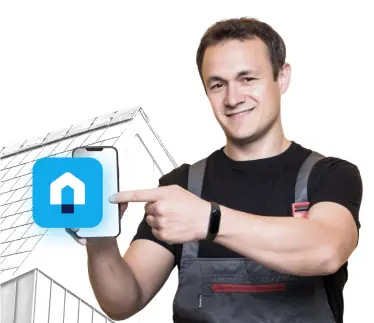
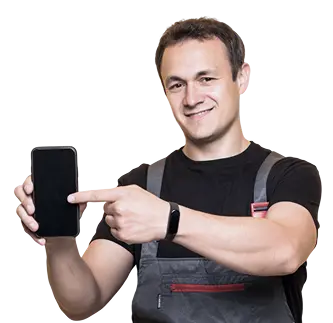
Update styles bunner

diff --git a/css/main.min.css b/css/main.min.css
@@ -1,1 +1,1 @@
-.visually-hidden{position:absolute;white-space:nowrap;width:1px;height:1px;overflow:hidden;border:0;padding:0;clip:rect(0 0 0 0);clip-path:inset(50%);margin:-1px}@font-face{font-family:"Plus Jakarta Sans";src:url("../fonts/PlusJakartaSans-Regular.woff2") format("woff2");font-weight:normal;font-style:normal;font-display:swap}@font-face{font-family:"Plus Jakarta Sans";src:url("../fonts/PlusJakartaSans-Bold.woff2") format("woff2");font-weight:bold;font-style:normal;font-display:swap}@font-face{font-family:"Plus Jakarta Sans";src:url("../fonts/PlusJakartaSans-SemiBold.woff2") format("woff2");font-weight:600;font-style:normal;font-display:swap}@font-face{font-family:"Be Vietnam Pro";src:url("../fonts/BeVietnamPro-Medium.woff2") format("woff2");font-weight:500;font-style:normal;font-display:swap}@font-face{font-family:"Plus Jakarta Sans";src:url("../fonts/PlusJakartaSans-ExtraBold.woff2") format("woff2");font-weight:bold;font-style:normal;font-display:swap}@font-face{font-family:"Be Vietnam Pro";src:url("../fonts/BeVietnamPro-Regular.woff2") format("woff2");font-weight:normal;font-style:normal;font-display:swap}*,*::before,*::after{margin:0;padding:0;border:0;-webkit-box-sizing:border-box;box-sizing:border-box}a,*::before,*::after{display:inline-block}html,body{min-width:320px;height:100%}body{font-family:"Plus Jakarta Sans",sans-serif;font-size:18px;line-height:1.56;color:#545971;background-color:#142257}html{scroll-behavior:smooth}a{color:inherit;text-decoration:none}ul,ol,li{list-style:none}button{cursor:pointer;background-color:inherit}img{vertical-align:top}h1,h2,h3,h4,h5,h6{font-weight:inherit;font-size:inherit}button,input{font-weight:inherit;font-size:inherit;color:inherit;font-family:inherit}[class*=__container]{max-width:375px;margin:0 auto;padding:0 24px}@media(min-width: 768px){[class*=__container]{max-width:768px}}@media(min-width: 1280px){[class*=__container]{max-width:1280px;padding:0 50px}}@media(min-width: 1440px){[class*=__container]{max-width:1440px;padding:0 100px}}@media(min-width: 1920px){[class*=__container]{max-width:1920px;padding:0 240px}}.section__title{font-weight:700;font-size:24px;line-height:1.33;color:#171921}.header{padding:12px 0}.header__container{display:-webkit-box;display:-ms-flexbox;display:flex;-webkit-box-align:center;-ms-flex-align:center;align-items:center;-webkit-box-pack:justify;-ms-flex-pack:justify;justify-content:space-between;min-height:56px}.logo{z-index:2}.menu__list{display:-webkit-box;display:-ms-flexbox;display:flex;gap:16px}.menu__link{position:relative;font-weight:700;line-height:1.33;color:#fff;-webkit-transition:color .3s linear;transition:color .3s linear}.menu__link:hover,.menu__link:focus{color:#15b2f5}.menu__link::after{content:"";position:absolute;width:0;height:2px;display:block;margin-top:5px;right:0;background:#15b2f5;-webkit-transition:width .3s ease;transition:width .3s ease;-webkit-transition:width .6s ease}.menu__link:hover::after,.menu__link:focus::after{width:100%;left:0}.header__hours{display:none}@media(min-width: 768px){.header__hours{display:-webkit-box;display:-ms-flexbox;display:flex;-webkit-box-align:center;-ms-flex-align:center;align-items:center;gap:10px}}.icon-hours{width:12px;height:12px;fill:#ff5e5e;border-radius:50%}.text-hours{font-weight:700;line-height:1.33;color:#fff}.icon-menu{display:none}@media(max-width: 767.98px){.header__container{min-height:56px}.icon-menu{display:block;-webkit-box-flex:0;-ms-flex:0 0 30px;flex:0 0 30px;height:18px;position:relative;z-index:5}.icon-menu span,.icon-menu::before,.icon-menu::after{content:"";right:0;position:absolute;width:100%;height:2px;background-color:#fff;-webkit-transition:all .3s linear;transition:all .3s linear}.icon-menu::before{top:0}.icon-menu::after{bottom:0}.icon-menu span{top:calc(50% - 1px)}.menu-open .icon-menu span{width:0}.menu-open .icon-menu::before{top:calc(50% - 1px);-webkit-transform:rotate(-45deg);transform:rotate(-45deg)}.menu-open .icon-menu::after{bottom:calc(50% - 1px);-webkit-transform:rotate(45deg);transform:rotate(45deg)}.menu__body{position:fixed;width:100%;height:100%;background:#1f3584;left:-100%;top:0;padding:86px 15px 30px 15px;overflow:auto;-webkit-transition:left .3s linear;transition:left .3s linear;z-index:1}.menu__body::before{content:"";width:100%;position:fixed;top:0;left:-100%;height:80px;background:#1f3584;z-index:2;-webkit-transition:left .3s linear;transition:left .3s linear}.menu-open .menu__body,.menu-open .menu__body::before{left:0}.menu__list{display:-webkit-box;display:-ms-flexbox;display:flex;-webkit-box-orient:vertical;-webkit-box-direction:normal;-ms-flex-direction:column;flex-direction:column;gap:64px;text-align:center}}.hero{padding:24px 0 0 0}.hero__services-list{display:-webkit-box;display:-ms-flexbox;display:flex;-webkit-box-pack:center;-ms-flex-pack:center;justify-content:center;gap:34px}.hero__services-item{position:relative;font-weight:600;font-size:14px;line-height:143%;color:#9399b2;margin-bottom:14px}.hero__services-item:nth-child(2)::before{position:absolute;top:8px;left:-17px;content:"";width:6px;height:6px;border-radius:50%;background-color:#9399b2}.hero__services-item:nth-child(2)::after{position:absolute;top:8px;right:-17px;content:"";width:6px;height:6px;border-radius:50%;background-color:#9399b2}.hero__title{font-weight:700;font-size:32px;line-height:1.25;text-align:center;color:#fff;margin-bottom:24px}.hero__bonuses-list{display:-webkit-box;display:-ms-flexbox;display:flex;-webkit-box-pack:center;-ms-flex-pack:center;justify-content:center;gap:24px;margin-bottom:24px}.hero__bonuses-item{display:-webkit-box;display:-ms-flexbox;display:flex;-webkit-box-align:center;-ms-flex-align:center;align-items:center;gap:8px;font-weight:400;font-size:14px;line-height:1.43;color:#15b2f5}.icon-check{width:16px;height:16px;stroke:#15b2f5}.hero__button{margin:0 auto;display:-webkit-box;display:-ms-flexbox;display:flex;-webkit-box-align:center;-ms-flex-align:center;align-items:center;-webkit-box-pack:center;-ms-flex-pack:center;justify-content:center;gap:12px;border-radius:60px;width:175px;height:48px;background-color:#15b2f5;font-weight:700;font-size:18px;line-height:1.33;text-align:center;color:#fff;margin-bottom:40px}.hero__button span{display:-webkit-box;display:-ms-flexbox;display:flex;border-radius:50%;padding:8px;width:32px;height:32px;background-color:#fff}.icon-phone{fill:#15b2f5;stroke:#15b2f5}.home__services-list{position:relative;display:-webkit-box;display:-ms-flexbox;display:flex;-ms-flex-wrap:wrap;flex-wrap:wrap;-webkit-column-gap:47px;-moz-column-gap:47px;column-gap:47px;row-gap:40px;padding:13px 22px 28px 22px;margin:0 auto;width:290px;height:242px}.home__services-item{display:-webkit-box;display:-ms-flexbox;display:flex;-webkit-box-orient:vertical;-webkit-box-direction:normal;-ms-flex-direction:column;flex-direction:column;-webkit-box-align:center;-ms-flex-align:center;align-items:center;gap:8px;width:99px;height:80px;font-weight:600;font-size:14px;line-height:1.43;text-align:center;color:#fff}.home__services-item span{display:-webkit-box;display:-ms-flexbox;display:flex;-webkit-box-align:center;-ms-flex-align:center;align-items:center;margin:0 auto;padding:8px;width:32px;height:32px;border-radius:50%;background-color:#2e3f7d}.home__services-icon{width:16px;height:16px;stroke:#fff;fill:rgba(0,0,0,0)}.icon-line{width:217px;height:2px;background:linear-gradient(45deg, transparent, #4f66b7 48%, transparent 100%)}.horizont-line{position:absolute;top:110px;left:30px}.vertical-line{position:absolute;bottom:125px;left:35px;rotate:90deg}.icon-left-decoration{position:absolute;bottom:-1px;left:-43px;fill:#fff}.icon-right-decoration{position:absolute;bottom:-1px;right:-43px;fill:#fff}.content{padding:60px 0 32px 0;background-color:#fff}.content__img{margin-bottom:32px}.content__title{margin-bottom:12px}.content__text{color:#545971;margin-bottom:32px}.content__list{display:-webkit-box;display:-ms-flexbox;display:flex;-webkit-box-orient:vertical;-webkit-box-direction:normal;-ms-flex-direction:column;flex-direction:column;gap:24px;margin-bottom:32px}.content__item{font-weight:600;font-size:16px;line-height:1.5;color:#1f3584;display:-webkit-box;display:-ms-flexbox;display:flex;-webkit-box-align:center;-ms-flex-align:center;align-items:center;gap:12px}.content-check{width:16px;height:16px;stroke:#1f3584;fill:rgba(0,0,0,0)}.content__info{border-radius:12px;padding:12px 24px;width:327px;height:108px;background-color:#15b2f5}.content__info-text{color:#fff}.content__info-text a{font-weight:600;line-height:1.33;margin-left:10px}.content__info-text a:hover{text-decoration:underline}.services{padding:32px 0;background-color:#fff}.services__title{text-align:center;margin-bottom:12px}.services__description{width:313px;text-align:center;color:#545971;margin-bottom:32px}.services__list{display:-webkit-box;display:-ms-flexbox;display:flex;-webkit-box-orient:vertical;-webkit-box-direction:normal;-ms-flex-direction:column;flex-direction:column;gap:32px;margin-bottom:32px}.services__item{width:304px;height:180px}.services__item span{display:-webkit-box;display:-ms-flexbox;display:flex;-webkit-box-align:center;-ms-flex-align:center;align-items:center;margin:0 auto;border-radius:20px;padding:12px;width:64px;height:64px;background-color:#142257;margin-bottom:16px}.services__icon{width:40px;height:40px;fill:#fff}.services__card-title{text-align:center;margin-bottom:12px}.services__card-text{text-align:center;color:#545971}.services__info{border-radius:24px;padding:32px;width:327px;height:236px;text-align:center;background-color:#15b2f5}.services__info-title{font-weight:700;font-size:24px;line-height:1.33;color:#fff;margin-bottom:4px}.services__info-text{color:#fff;margin-bottom:32px}.services__info-link{display:-webkit-box;display:-ms-flexbox;display:flex;-webkit-box-align:center;-ms-flex-align:center;align-items:center;-webkit-box-pack:center;-ms-flex-pack:center;justify-content:center;border-radius:60px;width:263px;height:48px;background-color:#fff;font-weight:700;line-height:1.33;color:#15b2f5;cursor:pointer}.guarantee{padding:32px 0;background-color:#142257}.guarantee__container{padding:0 32px}.guarantee__title{text-align:center;color:#fff;width:202px;margin:0 auto 12px}.guarantee__description{width:263px;text-align:center;color:#9ea3b5;margin:0 auto 52px}.guarantee__list{display:-webkit-box;display:-ms-flexbox;display:flex;-webkit-box-orient:vertical;-webkit-box-direction:normal;-ms-flex-direction:column;flex-direction:column;gap:52px}.guarantee__item{display:-webkit-box;display:-ms-flexbox;display:flex;-webkit-box-orient:vertical;-webkit-box-direction:normal;-ms-flex-direction:column;flex-direction:column;-webkit-box-align:center;-ms-flex-align:center;align-items:center;margin:0 auto;text-align:center;width:263px}.guarantee__image{margin-bottom:12px}.guarantee__icon{width:80px;height:80px;fill:#9ea3b5;stroke:rgba(0,0,0,0);margin-bottom:12px}.guarantee__card-title{font-weight:600;line-height:1.33;text-align:center;color:#fff;margin-bottom:12px}.guarantee__text{color:#9ea3b5}.works{padding:32px 0;background-color:#fff}.works__image-box{width:327px;height:266px;margin-bottom:24px}.works__title{width:175px;margin-bottom:24px}.works__item{display:-webkit-box;display:-ms-flexbox;display:flex;-webkit-box-orient:vertical;-webkit-box-direction:normal;-ms-flex-direction:column;flex-direction:column;gap:12px}.works__list{display:-webkit-box;display:-ms-flexbox;display:flex;-webkit-box-orient:vertical;-webkit-box-direction:normal;-ms-flex-direction:column;flex-direction:column;gap:24px}.works__card{display:-webkit-box;display:-ms-flexbox;display:flex;gap:24px}.works__card span{font-weight:700;font-size:52px;line-height:123%;color:#9ea3b5}.works__card-title{font-weight:600;font-size:20px;line-height:1.6;width:164px;color:#171921}.works__card-text{color:#545971}.reviews{padding:32px 0;background-color:#fff}.reviews__title{text-align:center;margin-bottom:32px}.reviews__top{position:relative;text-align:center;height:60px;margin-bottom:24px}.reviews__top::after{position:absolute;bottom:0;left:20px;content:"";width:280px;height:1px;background:linear-gradient(45deg, transparent, #b5bddb 48%, transparent 100%)}.reviews__text{text-align:center;color:#545971;margin-bottom:24px}.reviews__box{display:-webkit-box;display:-ms-flexbox;display:flex;-webkit-box-align:center;-ms-flex-align:center;align-items:center;-webkit-box-pack:center;-ms-flex-pack:center;justify-content:center;gap:16px}.reviews__image{width:52px;height:52px;border-radius:50%}.reviews__name{font-weight:700;font-size:20px;line-height:140%;color:#171921;margin-bottom:4px}.reviews__icon-star{width:24px;height:24px;fill:#ffa928}.icon-gray{fill:#e3e6f0}.swiper-button-prev::after{display:none}.swiper-button-next::after{display:none}.swiper-pagination{position:relative;margin-top:50px}.swiper__btn-box{position:absolute;bottom:32px}.swiper-button-prev,.swiper-button-next{padding:12px;width:48px;height:48px;border-radius:50%;background-color:#e3e6f0;cursor:pointer;-webkit-transition:background-color 300ms linear;transition:background-color 300ms linear}.swiper-button-prev:hover,.swiper-button-next:hover{background-color:#15b2f5}.icon-arrow{width:24px;height:24px;stroke:#fff;fill:rgba(0,0,0,0)}.swiper-button-prev{position:absolute;left:28px}.swiper-button-next{position:absolute;left:244px}.swiper-pagination{display:-webkit-box;display:-ms-flexbox;display:flex;-webkit-box-align:center;-ms-flex-align:center;align-items:center;-webkit-box-pack:center;-ms-flex-pack:center;justify-content:center;gap:2px;margin-top:40px;margin-bottom:18px}.custom-bullet{width:12px;height:12px;border-radius:6px;background-color:#545971;-webkit-transition:all .6s ease;transition:all .6s ease}.swiper-pagination-bullet-active.custom-bullet{width:32px;background-color:#15b2f5}.blog{padding:24px 0 32px 0;background-color:#fff}.blog__title{font-size:32px;line-height:1.25;text-align:center;color:#171921;margin-bottom:16px}.blog__description{text-align:center;margin-bottom:32px}.blog__list{display:-webkit-box;display:-ms-flexbox;display:flex;-webkit-box-orient:vertical;-webkit-box-direction:normal;-ms-flex-direction:column;flex-direction:column;gap:32px}.blog__img{margin-bottom:16px}.blog__data{margin-bottom:12px}.blog__card-title{font-weight:700;font-size:20px;line-height:1.4;color:#171921;margin-bottom:12px}.blog__card-text{margin-bottom:16px}.blog__btn-more{font-size:22px;font-weight:600;color:#171921;margin-bottom:16px}.blog__categories-list{display:-webkit-box;display:-ms-flexbox;display:flex;gap:12px}.blog__categories-item{padding:8px 10px;background-color:#f3f5f9;border-radius:90px;font-weight:600;font-size:14px;line-height:1.43;text-align:center;color:#545971}.faq{padding:32px 0;background-color:#fff}.faq__title{text-align:center;margin-bottom:16px}.faq__question{display:-webkit-box;display:-ms-flexbox;display:flex;-webkit-box-pack:center;-ms-flex-pack:center;justify-content:center;gap:10px;margin-bottom:32px}.faq__question-link{font-weight:600;line-height:1.33;text-decoration:underline;color:#15b2f5}.accordion__list{width:100%;display:-webkit-box;display:-ms-flexbox;display:flex;-webkit-box-orient:vertical;-webkit-box-direction:normal;-ms-flex-direction:column;flex-direction:column;gap:12px}.accordion__item{border-radius:12px}.accordion__button{border-radius:12px;padding:24px;width:100%;display:-webkit-box;display:-ms-flexbox;display:flex;-webkit-box-align:center;-ms-flex-align:center;align-items:center;-webkit-box-pack:justify;-ms-flex-pack:justify;justify-content:space-between;margin-bottom:16px;border:none;cursor:pointer;-webkit-transition:background-color .5s ease;transition:background-color .5s ease}.accordion__button p{width:219px;font-weight:600;line-height:1.33;color:#3a3a3a}.accordion__item.active{background-color:#f3f5f9}.arrow{width:24px;height:24px;fill:rgba(0,0,0,0);stroke:#171921;-webkit-transition:-webkit-transform .5s linear;transition:-webkit-transform .5s linear;transition:transform .5s linear;transition:transform .5s linear, -webkit-transform .5s linear}.accordion__text{color:#737373;padding:0 0 24px}.accordion__content{max-height:0;padding:0 20px;overflow:hidden;-webkit-transition:max-height .5s ease,opacity .5s ease,padding .5s ease;transition:max-height .5s ease,opacity .5s ease,padding .5s ease}.accordion__item.active .accordion-content{opacity:1;padding:15px 20px}.accordion__item.active .arrow{-webkit-transform:rotate(-180deg);transform:rotate(-180deg)}.banner{padding:56px 0 0}.banner__title{width:269px;line-height:1.33;text-align:center;color:#fff;margin:0 auto 24px}/*# sourceMappingURL=main.min.css.map */
+.visually-hidden{position:absolute;white-space:nowrap;width:1px;height:1px;overflow:hidden;border:0;padding:0;clip:rect(0 0 0 0);clip-path:inset(50%);margin:-1px}@font-face{font-family:"Plus Jakarta Sans";src:url("../fonts/PlusJakartaSans-Regular.woff2") format("woff2");font-weight:normal;font-style:normal;font-display:swap}@font-face{font-family:"Plus Jakarta Sans";src:url("../fonts/PlusJakartaSans-Bold.woff2") format("woff2");font-weight:bold;font-style:normal;font-display:swap}@font-face{font-family:"Plus Jakarta Sans";src:url("../fonts/PlusJakartaSans-SemiBold.woff2") format("woff2");font-weight:600;font-style:normal;font-display:swap}@font-face{font-family:"Be Vietnam Pro";src:url("../fonts/BeVietnamPro-Medium.woff2") format("woff2");font-weight:500;font-style:normal;font-display:swap}@font-face{font-family:"Plus Jakarta Sans";src:url("../fonts/PlusJakartaSans-ExtraBold.woff2") format("woff2");font-weight:bold;font-style:normal;font-display:swap}@font-face{font-family:"Be Vietnam Pro";src:url("../fonts/BeVietnamPro-Regular.woff2") format("woff2");font-weight:normal;font-style:normal;font-display:swap}*,*::before,*::after{margin:0;padding:0;border:0;-webkit-box-sizing:border-box;box-sizing:border-box}a,*::before,*::after{display:inline-block}html,body{min-width:320px;height:100%}body{font-family:"Plus Jakarta Sans",sans-serif;font-size:18px;line-height:1.56;color:#545971;background-color:#142257}html{scroll-behavior:smooth}a{color:inherit;text-decoration:none}ul,ol,li{list-style:none}button{cursor:pointer;background-color:inherit}img{vertical-align:top}h1,h2,h3,h4,h5,h6{font-weight:inherit;font-size:inherit}button,input{font-weight:inherit;font-size:inherit;color:inherit;font-family:inherit}[class*=__container]{max-width:375px;margin:0 auto;padding:0 24px}@media(min-width: 768px){[class*=__container]{max-width:768px}}@media(min-width: 1280px){[class*=__container]{max-width:1280px;padding:0 50px}}@media(min-width: 1440px){[class*=__container]{max-width:1440px;padding:0 100px}}@media(min-width: 1920px){[class*=__container]{max-width:1920px;padding:0 240px}}.section__title{font-weight:700;font-size:24px;line-height:1.33;color:#171921}.header{padding:12px 0}.header__container{display:-webkit-box;display:-ms-flexbox;display:flex;-webkit-box-align:center;-ms-flex-align:center;align-items:center;-webkit-box-pack:justify;-ms-flex-pack:justify;justify-content:space-between;min-height:56px}.logo{z-index:2}.menu__list{display:-webkit-box;display:-ms-flexbox;display:flex;gap:16px}.menu__link{position:relative;font-weight:700;line-height:1.33;color:#fff;-webkit-transition:color .3s linear;transition:color .3s linear}.menu__link:hover,.menu__link:focus{color:#15b2f5}.menu__link::after{content:"";position:absolute;width:0;height:2px;display:block;margin-top:5px;right:0;background:#15b2f5;-webkit-transition:width .3s ease;transition:width .3s ease;-webkit-transition:width .6s ease}.menu__link:hover::after,.menu__link:focus::after{width:100%;left:0}.header__hours{display:none}@media(min-width: 768px){.header__hours{display:-webkit-box;display:-ms-flexbox;display:flex;-webkit-box-align:center;-ms-flex-align:center;align-items:center;gap:10px}}.icon-hours{width:12px;height:12px;fill:#ff5e5e;border-radius:50%}.text-hours{font-weight:700;line-height:1.33;color:#fff}.icon-menu{display:none}@media(max-width: 767.98px){.header__container{min-height:56px}.icon-menu{display:block;-webkit-box-flex:0;-ms-flex:0 0 30px;flex:0 0 30px;height:18px;position:relative;z-index:5}.icon-menu span,.icon-menu::before,.icon-menu::after{content:"";right:0;position:absolute;width:100%;height:2px;background-color:#fff;-webkit-transition:all .3s linear;transition:all .3s linear}.icon-menu::before{top:0}.icon-menu::after{bottom:0}.icon-menu span{top:calc(50% - 1px)}.menu-open .icon-menu span{width:0}.menu-open .icon-menu::before{top:calc(50% - 1px);-webkit-transform:rotate(-45deg);transform:rotate(-45deg)}.menu-open .icon-menu::after{bottom:calc(50% - 1px);-webkit-transform:rotate(45deg);transform:rotate(45deg)}.menu__body{position:fixed;width:100%;height:100%;background:#1f3584;left:-100%;top:0;padding:86px 15px 30px 15px;overflow:auto;-webkit-transition:left .3s linear;transition:left .3s linear;z-index:1}.menu__body::before{content:"";width:100%;position:fixed;top:0;left:-100%;height:80px;background:#1f3584;z-index:2;-webkit-transition:left .3s linear;transition:left .3s linear}.menu-open .menu__body,.menu-open .menu__body::before{left:0}.menu__list{display:-webkit-box;display:-ms-flexbox;display:flex;-webkit-box-orient:vertical;-webkit-box-direction:normal;-ms-flex-direction:column;flex-direction:column;gap:64px;text-align:center}}.hero{padding:24px 0 0 0}.hero__services-list{display:-webkit-box;display:-ms-flexbox;display:flex;-webkit-box-pack:center;-ms-flex-pack:center;justify-content:center;gap:34px}.hero__services-item{position:relative;font-weight:600;font-size:14px;line-height:143%;color:#9399b2;margin-bottom:14px}.hero__services-item:nth-child(2)::before{position:absolute;top:8px;left:-17px;content:"";width:6px;height:6px;border-radius:50%;background-color:#9399b2}.hero__services-item:nth-child(2)::after{position:absolute;top:8px;right:-17px;content:"";width:6px;height:6px;border-radius:50%;background-color:#9399b2}.hero__title{font-weight:700;font-size:32px;line-height:1.25;text-align:center;color:#fff;margin-bottom:24px}.hero__bonuses-list{display:-webkit-box;display:-ms-flexbox;display:flex;-webkit-box-pack:center;-ms-flex-pack:center;justify-content:center;gap:24px;margin-bottom:24px}.hero__bonuses-item{display:-webkit-box;display:-ms-flexbox;display:flex;-webkit-box-align:center;-ms-flex-align:center;align-items:center;gap:8px;font-weight:400;font-size:14px;line-height:1.43;color:#15b2f5}.icon-check{width:16px;height:16px;stroke:#15b2f5}.hero__button{margin:0 auto;display:-webkit-box;display:-ms-flexbox;display:flex;-webkit-box-align:center;-ms-flex-align:center;align-items:center;-webkit-box-pack:center;-ms-flex-pack:center;justify-content:center;gap:12px;border-radius:60px;width:175px;height:48px;background-color:#15b2f5;font-weight:700;font-size:18px;line-height:1.33;text-align:center;color:#fff;margin-bottom:40px}.hero__button span{display:-webkit-box;display:-ms-flexbox;display:flex;border-radius:50%;padding:8px;width:32px;height:32px;background-color:#fff}.icon-phone{fill:#15b2f5;stroke:#15b2f5}.home__services-list{position:relative;display:-webkit-box;display:-ms-flexbox;display:flex;-ms-flex-wrap:wrap;flex-wrap:wrap;-webkit-column-gap:47px;-moz-column-gap:47px;column-gap:47px;row-gap:40px;padding:13px 22px 28px 22px;margin:0 auto;width:290px;height:242px}.home__services-item{display:-webkit-box;display:-ms-flexbox;display:flex;-webkit-box-orient:vertical;-webkit-box-direction:normal;-ms-flex-direction:column;flex-direction:column;-webkit-box-align:center;-ms-flex-align:center;align-items:center;gap:8px;width:99px;height:80px;font-weight:600;font-size:14px;line-height:1.43;text-align:center;color:#fff}.home__services-item span{display:-webkit-box;display:-ms-flexbox;display:flex;-webkit-box-align:center;-ms-flex-align:center;align-items:center;margin:0 auto;padding:8px;width:32px;height:32px;border-radius:50%;background-color:#2e3f7d}.home__services-icon{width:16px;height:16px;stroke:#fff;fill:rgba(0,0,0,0)}.icon-line{width:217px;height:2px;background:linear-gradient(45deg, transparent, #4f66b7 48%, transparent 100%)}.horizont-line{position:absolute;top:110px;left:30px}.vertical-line{position:absolute;bottom:125px;left:35px;rotate:90deg}.icon-left-decoration{position:absolute;bottom:-1px;left:-43px;fill:#fff}.icon-right-decoration{position:absolute;bottom:-1px;right:-43px;fill:#fff}.content{padding:60px 0 32px 0;background-color:#fff}.content__img{margin-bottom:32px}.content__title{margin-bottom:12px}.content__text{color:#545971;margin-bottom:32px}.content__list{display:-webkit-box;display:-ms-flexbox;display:flex;-webkit-box-orient:vertical;-webkit-box-direction:normal;-ms-flex-direction:column;flex-direction:column;gap:24px;margin-bottom:32px}.content__item{font-weight:600;font-size:16px;line-height:1.5;color:#1f3584;display:-webkit-box;display:-ms-flexbox;display:flex;-webkit-box-align:center;-ms-flex-align:center;align-items:center;gap:12px}.content-check{width:16px;height:16px;stroke:#1f3584;fill:rgba(0,0,0,0)}.content__info{border-radius:12px;padding:12px 24px;width:327px;height:108px;background-color:#15b2f5}.content__info-text{color:#fff}.content__info-text a{font-weight:600;line-height:1.33;margin-left:10px}.content__info-text a:hover{text-decoration:underline}.services{padding:32px 0;background-color:#fff}.services__title{text-align:center;margin-bottom:12px}.services__description{width:313px;text-align:center;color:#545971;margin-bottom:32px}.services__list{display:-webkit-box;display:-ms-flexbox;display:flex;-webkit-box-orient:vertical;-webkit-box-direction:normal;-ms-flex-direction:column;flex-direction:column;gap:32px;margin-bottom:32px}.services__item{width:304px;height:180px}.services__item span{display:-webkit-box;display:-ms-flexbox;display:flex;-webkit-box-align:center;-ms-flex-align:center;align-items:center;margin:0 auto;border-radius:20px;padding:12px;width:64px;height:64px;background-color:#142257;margin-bottom:16px}.services__icon{width:40px;height:40px;fill:#fff}.services__card-title{text-align:center;margin-bottom:12px}.services__card-text{text-align:center;color:#545971}.services__info{border-radius:24px;padding:32px;width:327px;height:236px;text-align:center;background-color:#15b2f5}.services__info-title{font-weight:700;font-size:24px;line-height:1.33;color:#fff;margin-bottom:4px}.services__info-text{color:#fff;margin-bottom:32px}.services__info-link{display:-webkit-box;display:-ms-flexbox;display:flex;-webkit-box-align:center;-ms-flex-align:center;align-items:center;-webkit-box-pack:center;-ms-flex-pack:center;justify-content:center;border-radius:60px;width:263px;height:48px;background-color:#fff;font-weight:700;line-height:1.33;color:#15b2f5;cursor:pointer}.guarantee{padding:32px 0;background-color:#142257}.guarantee__container{padding:0 32px}.guarantee__title{text-align:center;color:#fff;width:202px;margin:0 auto 12px}.guarantee__description{width:263px;text-align:center;color:#9ea3b5;margin:0 auto 52px}.guarantee__list{display:-webkit-box;display:-ms-flexbox;display:flex;-webkit-box-orient:vertical;-webkit-box-direction:normal;-ms-flex-direction:column;flex-direction:column;gap:52px}.guarantee__item{display:-webkit-box;display:-ms-flexbox;display:flex;-webkit-box-orient:vertical;-webkit-box-direction:normal;-ms-flex-direction:column;flex-direction:column;-webkit-box-align:center;-ms-flex-align:center;align-items:center;margin:0 auto;text-align:center;width:263px}.guarantee__image{margin-bottom:12px}.guarantee__icon{width:80px;height:80px;fill:#9ea3b5;stroke:rgba(0,0,0,0);margin-bottom:12px}.guarantee__card-title{font-weight:600;line-height:1.33;text-align:center;color:#fff;margin-bottom:12px}.guarantee__text{color:#9ea3b5}.works{padding:32px 0;background-color:#fff}.works__image-box{width:327px;height:266px;margin-bottom:24px}.works__title{width:175px;margin-bottom:24px}.works__item{display:-webkit-box;display:-ms-flexbox;display:flex;-webkit-box-orient:vertical;-webkit-box-direction:normal;-ms-flex-direction:column;flex-direction:column;gap:12px}.works__list{display:-webkit-box;display:-ms-flexbox;display:flex;-webkit-box-orient:vertical;-webkit-box-direction:normal;-ms-flex-direction:column;flex-direction:column;gap:24px}.works__card{display:-webkit-box;display:-ms-flexbox;display:flex;gap:24px}.works__card span{font-weight:700;font-size:52px;line-height:123%;color:#9ea3b5}.works__card-title{font-weight:600;font-size:20px;line-height:1.6;width:164px;color:#171921}.works__card-text{color:#545971}.reviews{padding:32px 0;background-color:#fff}.reviews__title{text-align:center;margin-bottom:32px}.reviews__top{position:relative;text-align:center;height:60px;margin-bottom:24px}.reviews__top::after{position:absolute;bottom:0;left:20px;content:"";width:280px;height:1px;background:linear-gradient(45deg, transparent, #b5bddb 48%, transparent 100%)}.reviews__text{text-align:center;color:#545971;margin-bottom:24px}.reviews__box{display:-webkit-box;display:-ms-flexbox;display:flex;-webkit-box-align:center;-ms-flex-align:center;align-items:center;-webkit-box-pack:center;-ms-flex-pack:center;justify-content:center;gap:16px}.reviews__image{width:52px;height:52px;border-radius:50%}.reviews__name{font-weight:700;font-size:20px;line-height:140%;color:#171921;margin-bottom:4px}.reviews__icon-star{width:24px;height:24px;fill:#ffa928}.icon-gray{fill:#e3e6f0}.swiper-button-prev::after{display:none}.swiper-button-next::after{display:none}.swiper-pagination{position:relative;margin-top:50px}.swiper__btn-box{position:absolute;bottom:32px}.swiper-button-prev,.swiper-button-next{padding:12px;width:48px;height:48px;border-radius:50%;background-color:#e3e6f0;cursor:pointer;-webkit-transition:background-color 300ms linear;transition:background-color 300ms linear}.swiper-button-prev:hover,.swiper-button-next:hover{background-color:#15b2f5}.icon-arrow{width:24px;height:24px;stroke:#fff;fill:rgba(0,0,0,0)}.swiper-button-prev{position:absolute;left:28px}.swiper-button-next{position:absolute;left:244px}.swiper-pagination{display:-webkit-box;display:-ms-flexbox;display:flex;-webkit-box-align:center;-ms-flex-align:center;align-items:center;-webkit-box-pack:center;-ms-flex-pack:center;justify-content:center;gap:2px;margin-top:40px;margin-bottom:18px}.custom-bullet{width:12px;height:12px;border-radius:6px;background-color:#545971;-webkit-transition:all .6s ease;transition:all .6s ease}.swiper-pagination-bullet-active.custom-bullet{width:32px;background-color:#15b2f5}.blog{padding:24px 0 32px 0;background-color:#fff}.blog__title{font-size:32px;line-height:1.25;text-align:center;color:#171921;margin-bottom:16px}.blog__description{text-align:center;margin-bottom:32px}.blog__list{display:-webkit-box;display:-ms-flexbox;display:flex;-webkit-box-orient:vertical;-webkit-box-direction:normal;-ms-flex-direction:column;flex-direction:column;gap:32px}.blog__img{margin-bottom:16px}.blog__data{margin-bottom:12px}.blog__card-title{font-weight:700;font-size:20px;line-height:1.4;color:#171921;margin-bottom:12px}.blog__card-text{margin-bottom:16px}.blog__btn-more{font-size:22px;font-weight:600;color:#171921;margin-bottom:16px}.blog__categories-list{display:-webkit-box;display:-ms-flexbox;display:flex;gap:12px}.blog__categories-item{padding:8px 10px;background-color:#f3f5f9;border-radius:90px;font-weight:600;font-size:14px;line-height:1.43;text-align:center;color:#545971}.faq{padding:32px 0;background-color:#fff}.faq__title{text-align:center;margin-bottom:16px}.faq__question{display:-webkit-box;display:-ms-flexbox;display:flex;-webkit-box-pack:center;-ms-flex-pack:center;justify-content:center;gap:10px;margin-bottom:32px}.faq__question-link{font-weight:600;line-height:1.33;text-decoration:underline;color:#15b2f5}.accordion__list{width:100%;display:-webkit-box;display:-ms-flexbox;display:flex;-webkit-box-orient:vertical;-webkit-box-direction:normal;-ms-flex-direction:column;flex-direction:column;gap:12px}.accordion__item{border-radius:12px}.accordion__button{border-radius:12px;padding:24px;width:100%;display:-webkit-box;display:-ms-flexbox;display:flex;-webkit-box-align:center;-ms-flex-align:center;align-items:center;-webkit-box-pack:justify;-ms-flex-pack:justify;justify-content:space-between;margin-bottom:16px;border:none;cursor:pointer;-webkit-transition:background-color .5s ease;transition:background-color .5s ease}.accordion__button p{width:219px;font-weight:600;line-height:1.33;color:#3a3a3a}.accordion__item.active{background-color:#f3f5f9}.arrow{width:24px;height:24px;fill:rgba(0,0,0,0);stroke:#171921;-webkit-transition:-webkit-transform .5s linear;transition:-webkit-transform .5s linear;transition:transform .5s linear;transition:transform .5s linear, -webkit-transform .5s linear}.accordion__text{color:#737373;padding:0 0 24px}.accordion__content{max-height:0;padding:0 20px;overflow:hidden;-webkit-transition:max-height .5s ease,opacity .5s ease,padding .5s ease;transition:max-height .5s ease,opacity .5s ease,padding .5s ease}.accordion__item.active .accordion-content{opacity:1;padding:15px 20px}.accordion__item.active .arrow{-webkit-transform:rotate(-180deg);transform:rotate(-180deg)}.banner{padding:56px 0 0}.banner__title{width:269px;line-height:1.33;text-align:center;color:#fff;margin:0 auto 24px}.bg-img{position:relative}.banner__image{display:block;margin-left:auto}.banner__icon{position:absolute;left:15px;bottom:65px;width:114px;height:114px}/*# sourceMappingURL=main.min.css.map */

diff --git a/index.html b/index.html
@@ -1023,21 +1023,21 @@
               </svg>
             </span>
           </a>
-          <div class="bg-img">
-            <picture>
-              <source
-                srcset="./images/banner/banner-img.webp"
-                type="image/webp"
-              />
-              <img
-              class="banner__image"
-                src="./images/banner/banner-img.jpg"
-                alt="worker with phone"
-              />
-            </picture>
-          </div>
         </div>
       </section>
+      <div class="bg-img">
+        <picture>
+          <source srcset="./images/banner/banner-img.webp" type="image/webp" />
+          <img
+            class="banner__image"
+            src="./images/banner/banner-img.png"
+            alt="worker with phone"
+          />
+        </picture>
+        <svg class="banner__icon">
+          <use href="./images/icons.svg#icon-logo-home-services"></use>
+        </svg>
+      </div>
     </main>
 
     <script src="https://cdn.jsdelivr.net/npm/swiper@11/swiper-bundle.min.js"></script>

diff --git a/sass/layout/_banner.scss b/sass/layout/_banner.scss
@@ -2,10 +2,10 @@
 
 .banner {
   padding: 56px 0 0;
-//   background-image: url('../../images/banner/banner-img.webp');
-//   background-position: bottom;
-//   background-repeat: no-repeat;
-//   background-size: 374px 323px;
+  //   background-image: url('../../images/banner/banner-img.webp');
+  //   background-position: bottom;
+  //   background-repeat: no-repeat;
+  //   background-size: 374px 323px;
 }
 
 .banner__title {
@@ -14,4 +14,22 @@
   text-align: center;
   color: $colorNeuturalWhite;
   margin: 0 auto 24px;
+}
+
+.bg-img {
+  position: relative;
+}
+
+.banner__image {
+  display: block;
+  margin-left: auto;
+}
+
+.banner__icon {
+  position: absolute;
+  left: 15px;
+  bottom: 65px;
+  width: 114px;
+  height: 114px;
+  
 }

diff --git a/css/main.css b/css/main.css
@@ -1223,4 +1223,21 @@ input {
   text-align: center;
   color: #fff;
   margin: 0 auto 24px;
+}
+
+.bg-img {
+  position: relative;
+}
+
+.banner__image {
+  display: block;
+  margin-left: auto;
+}
+
+.banner__icon {
+  position: absolute;
+  left: 15px;
+  bottom: 65px;
+  width: 114px;
+  height: 114px;
 }/*# sourceMappingURL=main.css.map */
